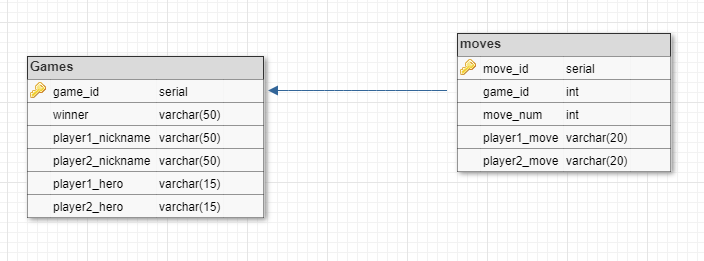
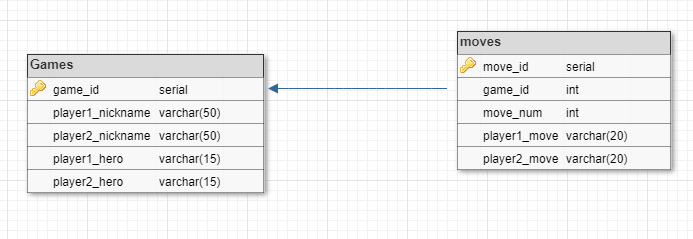
And it's DONE!

Changed region(s): [[0.0, 0.1172, 1.0, 0.8787]]

diff --git a/src/main/java/com/game/Game.java b/src/main/java/com/game/Game.java
@@ -1,5 +1,9 @@
 package com.game;
     import com.characters.Character;
+    import com.records.models.GameRecord;
+    import com.records.models.MovesRecord;
+    import com.records.service.GameService;
+    import com.records.service.GameServiceImpl;
 
     import java.util.Scanner;
 
@@ -7,8 +11,13 @@ public class Game {
     private int move;
     private final static int LVLS_TO_VICTORY = 20;
     private Character[] players = new Character[2];
+    private GameRecord gameRecord;
 
-
+    /**
+     * создание игры и запись в бд
+     * @param player1
+     * @param player2
+     */
         public Game(Character player1, Character player2){
             move = 0;
             if (Math.random() < 0.5){
@@ -18,9 +27,18 @@ public class Game {
                 players[0] = player1;
                 players[1] = player2;
             }
+            String hero1 = players[0].getClass().toString().split(" ")[1].split("\\.")[2];
+            String hero2 = players[1].getClass().toString().split(" ")[1].split("\\.")[2];
+            gameRecord = new GameRecord(players[0].getName(),players[1].getName(), hero1, hero2);
+            new GameServiceImpl().saveGame(gameRecord);//запись об игре в бд
         }
 
-        public void possibleMoves(Character playerThatMoves){
+    /**
+     * Предоставляет игроку выбор возможных ходов
+     * @param playerThatMoves
+     * @return название выбранного хода для сохранения в бд
+     */
+        public String possibleMoves(Character playerThatMoves){
             Character playerThatStands = null;
             for (Character c : players)
                 if (!c.equals(playerThatMoves)) playerThatStands = c;
@@ -34,39 +52,53 @@ public class Game {
                 System.out.println("4. Special action");
                 sc = new Scanner(System.in);
                 switch (sc.nextInt()){
-                    case 1 : {playerThatMoves.rest(); break;}
-                    case 2 : {playerThatMoves.descent(); break;}
-                    case 3 : {playerThatMoves.fastDescent(); break;}
-                    case 4 : {playerThatMoves.specialAction(playerThatStands); break;}
-                    default: {System.out.println("Wrong number"); break;}
+                    case 1 : {playerThatMoves.rest(); return "rest";}
+                    case 2 : {playerThatMoves.descent(); return "descent";}
+                    case 3 : {playerThatMoves.fastDescent(); return "fastDescent";}
+                    case 4 : {playerThatMoves.specialAction(playerThatStands); return "specialAction";}
+                    default: {System.out.println("Wrong number"); return  "Wrong move";}
                 }
             } else {
                 System.out.println("1. Rest");
                 sc = new Scanner(System.in);
                 switch (sc.nextInt()){
-                    case 1 : {playerThatMoves.rest(); break;}
-                    default: {System.out.println("Wrong number"); break;}
+                    case 1 : {playerThatMoves.rest(); return "rest";}
+                    default: {System.out.println("Wrong number"); return "Wrong move";}
                 }
             }
         }
 
+    /**
+     * В этой функции и идёт игра
+     * Каждый ход сохраняется в бд
+     * Её ход можно воспроизвести при помощи ф-ии showReplay()
+     * из класса GameReplay
+     */
         public void theGame() {
+            int moveCounter = 0;
+            int playerCounter = 0;
+            GameService gameService = new GameServiceImpl();
+            String[] playerMovesOnThisTurn = new String[2];
             while (true) {
                 for (Character c : players) {
                     System.out.println("It's " + c.getName() + " turn to move");
                     if (c.isAbleToMove()) {
-                        possibleMoves(c);
+                        playerMovesOnThisTurn[playerCounter] = possibleMoves(c);
                         //в конце хода проверка на победу
                         if (c.getFloor() == LVLS_TO_VICTORY) {
                             System.out.println(c.getName() + " is winner!!!!!!");
                             return;
                         }
-                        //TODO закончить игру
                     } else {//Этот вариант только в случае блока гномом
                         System.out.println("You can't move this turn");
                         c.setAbleToMove(true);
                     }
+                    playerCounter++;
                 }
+                //сохраняем ход
+                gameService.saveMovesForGame(gameRecord.getGameId(), new MovesRecord(gameRecord, moveCounter, playerMovesOnThisTurn[0], playerMovesOnThisTurn[1]));
+                playerCounter = 0;
+                moveCounter++;
             }
         }
 

diff --git a/src/main/java/com/records/GameReplay.java b/src/main/java/com/records/GameReplay.java
@@ -1,0 +1,67 @@
+package com.records;
+
+import com.characters.Character;
+import com.characters.DworfWarrior;
+import com.characters.ElfScout;
+import com.characters.HumanMage;
+import com.records.models.GameRecord;
+import com.records.models.MovesRecord;
+import com.records.service.GameService;
+import com.records.service.GameServiceImpl;
+
+import java.util.List;
+
+public class GameReplay {
+    private Character[] players = new Character[2];
+    private long countOfMoves;
+    private int gameId;
+
+    public GameReplay(GameRecord gameRecord){
+        Character player1, player2;
+        gameId = gameRecord.getGameId();
+        countOfMoves = new GameServiceImpl().findCountOfMovesInGame(gameRecord.getGameId());//тут логичнее было бы использовать просто размер
+                                                                                            //листа с ходами, но коль уж написал отдельную функцию для этого
+                                                                                            //то почему бы не использовать её?
+        switch (gameRecord.getPlayer1Hero()){
+            case "DworfWarrior" : {player1 = new DworfWarrior(gameRecord.getPlayer1Nickname()); break;}
+            case "ElfScout"     : {player1 = new ElfScout(gameRecord.getPlayer1Nickname()); break;}
+            case "HumanMage"    : {player1 = new HumanMage(gameRecord.getPlayer1Nickname()); break;}
+            default             : {player1 = null; break;}
+        }
+        switch (gameRecord.getPlayer2Hero()){
+            case "DworfWarrior" : {player2 = new DworfWarrior(gameRecord.getPlayer2Nickname()); break;}
+            case "ElfScout"     : {player2 = new ElfScout(gameRecord.getPlayer2Nickname()); break;}
+            case "HumanMage"    : {player2 = new HumanMage(gameRecord.getPlayer2Nickname()); break;}
+            default             : {player2 = null; break;}
+        }
+        players[0] = player1;
+        players[1] = player2;
+    }
+
+    /**
+     *
+     * @param playerThatMoves для этого игрока будет разыгрываться действие
+     * @param playerThatStands нужен на случай special action
+     * @param moveName ход, который был разыгран
+     */
+    public void whatMoveToPlay(Character playerThatMoves, Character playerThatStands ,String moveName){
+        switch (moveName){
+            case "rest"          : {playerThatMoves.rest(); break;}
+            case "descent"       : {playerThatMoves.descent(); break;}
+            case "fastDescent"   : {playerThatMoves.fastDescent(); break;}
+            case "specialAction" : {playerThatMoves.specialAction(playerThatStands); break;}
+            default              : {System.out.println("Wrong move " + moveName); break;}
+        }
+    }
+
+    public void playMoves(MovesRecord movesRecord){
+        whatMoveToPlay(players[0], players[1], movesRecord.getPlayer1Move());
+        whatMoveToPlay(players[1], players[0], movesRecord.getPlayer2Move());
+    }
+    public void showReplay(){
+        List<MovesRecord> moves = new GameServiceImpl().findMovesByGameId(gameId);
+        for(int i = 0; i < countOfMoves; i++)
+            playMoves(moves.get(i));
+    }
+
+}

diff --git a/src/main/java/com/records/service/GameServiceImpl.java b/src/main/java/com/records/service/GameServiceImpl.java
@@ -5,8 +5,6 @@ import com.records.models.MovesRecord;
 import com.records.utils.HibernateSessionFactoryUtil;
 import org.hibernate.Session;
 import org.hibernate.Transaction;
-
-import java.util.ArrayList;
 import java.util.List;
 
 public class GameServiceImpl implements GameService {
@@ -17,7 +15,7 @@ public class GameServiceImpl implements GameService {
 
     @Override
     public List<MovesRecord> findMovesByGameId(int gameId) {
-        String query = "from MovesRecord where game_id = " + gameId;
+        String query = "from MovesRecord where game_id = " + gameId;//хоть идея и ругается, но это рабочий вариант
         List<MovesRecord> list = (List<MovesRecord>)HibernateSessionFactoryUtil.getSessionFactory().openSession().createQuery(query).list();
         return list;
     }
@@ -42,17 +40,16 @@ public class GameServiceImpl implements GameService {
         session.close();
     }
 
-    public static void main(String[] args) {
-        GameRecord gameRecord = new GameRecord("Bob1", "Bob1", "Bob2", "HumanMage", "ElfScout");
-        GameServiceImpl gameService = new GameServiceImpl();
-        //gameService.saveGame(gameRecord);
-        //gameRecord = gameService.findById(1);
-        /*MovesRecord movesRecord1 = new MovesRecord(gameRecord, 1, "rest", "rest");
-        MovesRecord movesRecord2 = new MovesRecord(gameRecord, 2, "rest", "rest");
-        gameService.saveMovesForGame(1, movesRecord1);
-        gameService.saveMovesForGame(1, movesRecord2);*/
-        List<MovesRecord> list = gameService.findMovesByGameId(1);
-        for (MovesRecord mr : list)
-            System.out.println(mr);
+    /**
+     * Возращает количество ходов в игре
+     * @param gameId
+     * @return
+     */
+    @Override
+    public long findCountOfMovesInGame(int gameId) {
+        String query = "select count(move_num) from MovesRecord where game_id =" + gameId;
+        List<Long> list = HibernateSessionFactoryUtil.getSessionFactory().openSession().createQuery(query).list();
+        return list.get(0);
     }
+
 }

diff --git a/src/main/java/com/records/models/GameRecord.java b/src/main/java/com/records/models/GameRecord.java
@@ -10,7 +10,6 @@ public class GameRecord {
     @GeneratedValue(strategy = GenerationType.IDENTITY)
     @Column(name = "game_id")
     private int gameId;
-    private String winner;
     @Column(name = "player1_nickname")
     private String player1Nickname;
     @Column(name = "player2_nickname")
@@ -23,8 +22,7 @@ public class GameRecord {
     public GameRecord() {
     }
 
-    public GameRecord(String winner, String player1Nickname, String player2Nickname, String player1Hero, String player2Hero) {
-        this.winner = winner;
+    public GameRecord(String player1Nickname, String player2Nickname, String player1Hero, String player2Hero) {
         this.player1Nickname = player1Nickname;
         this.player2Nickname = player2Nickname;
         this.player1Hero = player1Hero;
@@ -37,14 +35,6 @@ public class GameRecord {
 
     public void setGameId(int gameId) {
         this.gameId = gameId;
-    }
-
-    public String getWinner() {
-        return winner;
-    }
-
-    public void setWinner(String winner) {
-        this.winner = winner;
     }
 
     public String getPlayer1Nickname() {
@@ -83,7 +73,6 @@ public class GameRecord {
     public String toString() {
         return "GameRecord{" +
                 "gameId=" + gameId +
-                ", winner='" + winner + '\'' +
                 ", player1Nickname='" + player1Nickname + '\'' +
                 ", player2Nickname='" + player2Nickname + '\'' +
                 ", player1Hero='" + player1Hero + '\'' +

diff --git a/src/main/java/com/characters/HumanMage.java b/src/main/java/com/characters/HumanMage.java
@@ -9,6 +9,13 @@ public class HumanMage extends Character {
         specialActionCost = 15;
         actualStamina = maxStamina;
     }
+    public HumanMage(String nickname){
+        name = nickname;
+        maxStamina = 30;
+        fastDescentCost = 13;
+        specialActionCost = 15;
+        actualStamina = maxStamina;
+    }
 
     /**
      * Если второй игрок на уровень ниже, то наш персонаж опускается, а враг поднимается

diff --git a/src/main/java/com/characters/ElfScout.java b/src/main/java/com/characters/ElfScout.java
@@ -8,6 +8,13 @@ public class ElfScout extends Character {
         specialActionCost = 24;
         actualStamina = maxStamina;
     }
+    public ElfScout(String nickname){
+        name = nickname;
+        maxStamina = 40;
+        fastDescentCost = 12;
+        specialActionCost = 24;
+        actualStamina = maxStamina;
+    }
     public void specialAction(Character character2) {
         if (actualStamina >= specialActionCost) {
             this.floor += 3;

diff --git a/src/main/java/com/characters/DworfWarrior.java b/src/main/java/com/characters/DworfWarrior.java
@@ -8,6 +8,13 @@ public class DworfWarrior extends Character {
         specialActionCost = 20;
         actualStamina = maxStamina;
     }
+    public DworfWarrior(String nickname){
+        name = nickname;
+        maxStamina = 50;
+        fastDescentCost = 15;
+        specialActionCost = 20;
+        actualStamina = maxStamina;
+    }
 
     /**
      * Опускает

diff --git a/src/main/java/com/records/service/GameService.java b/src/main/java/com/records/service/GameService.java
@@ -10,4 +10,5 @@ public interface GameService {
     List<MovesRecord> findMovesByGameId(int gameId);
     void saveGame(GameRecord gameRecord);
     void saveMovesForGame(int gameRecordId, MovesRecord movesRecord);
+    long findCountOfMovesInGame(int gameId);
 }

diff --git a/src/main/java/com/gameField.java b/src/main/java/com/gameField.java
@@ -12,5 +12,6 @@ public class gameField {
         ElfScout p2 = new ElfScout();
         Game g1 = new Game(p1, p2);
         g1.theGame();
+
     }
 }
